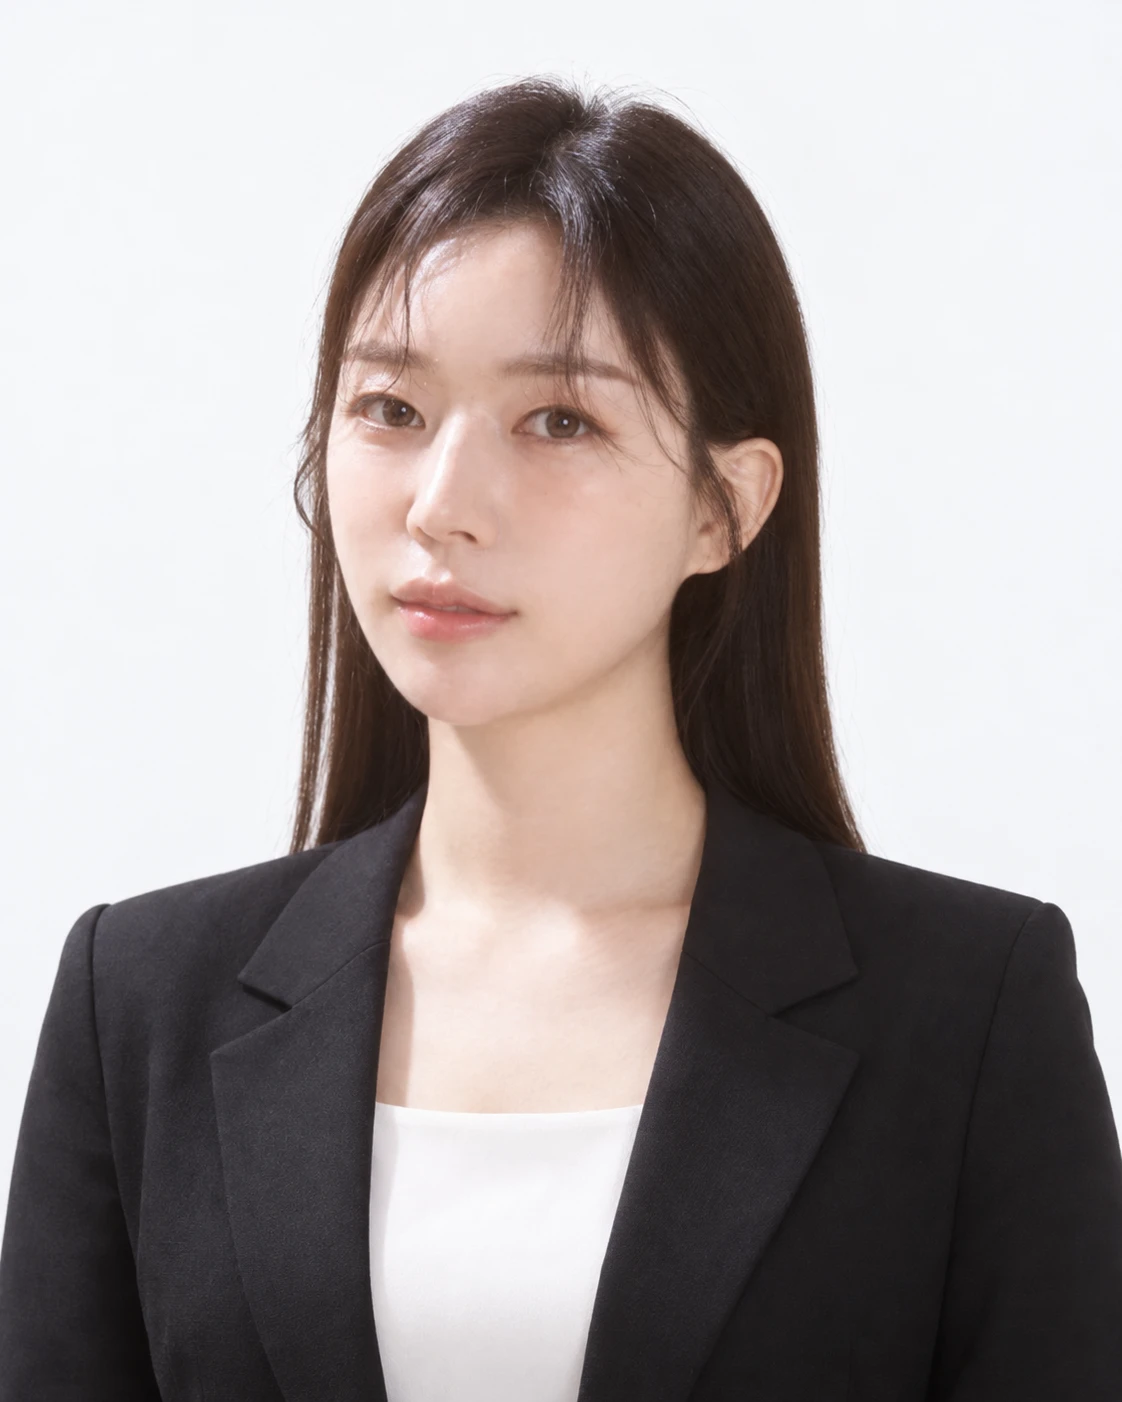
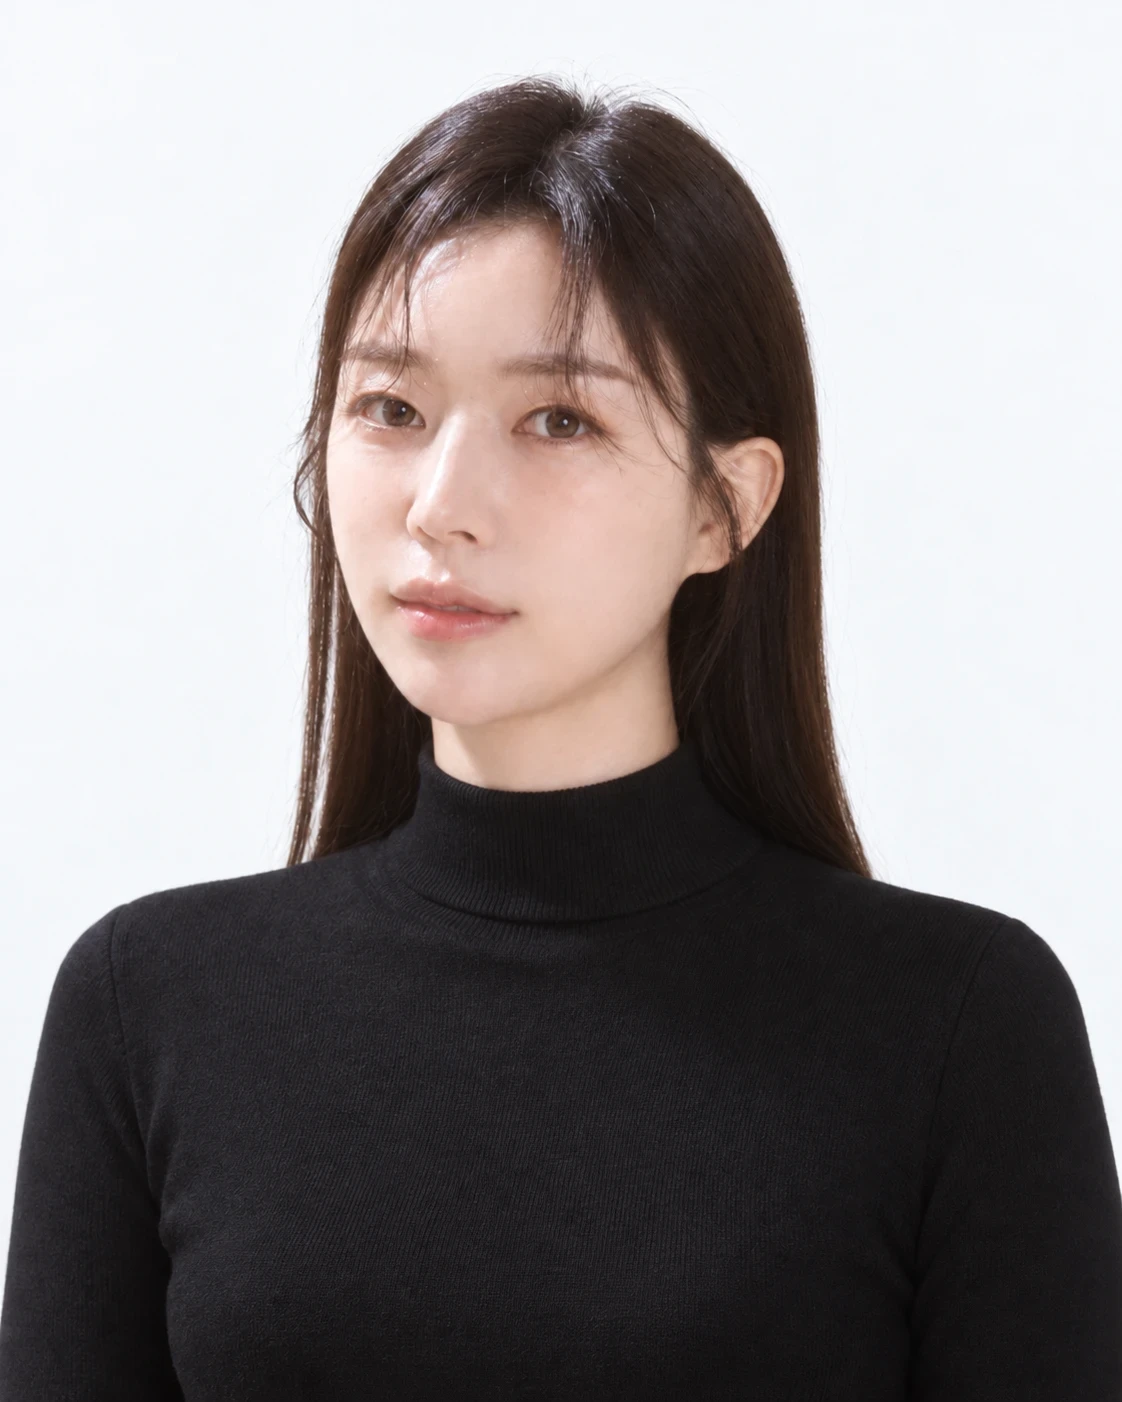
프로필 사진 교체, 이메일과 전화번호 복사 버튼, 핵심역량 기호 변경, 메뉴 글자 크기 조정, 홈 하단 문구 삭제

diff --git a/profile.html b/profile.html
@@ -5,7 +5,7 @@
 <meta name="viewport" content="width=device-width, initial-scale=1">
 <title>프로필 | 박경지 포트폴리오</title>
 <link rel="stylesheet" href="https://cdn.jsdelivr.net/gh/orioncactus/pretendard@v1.3.9/dist/web/static/pretendard.min.css">
-<link rel="stylesheet" href="style.css?v=5">
+<link rel="stylesheet" href="style.css?v=6">
 </head>
 <body>
 <div class="wrap">
@@ -15,11 +15,16 @@
 <div class="body">
 
 <header class="profile-hero">
-<img src="profile.webp" alt="박경지 프로필 사진">
+<img src="profile.webp?v=2" alt="박경지 프로필 사진">
 <div class="txt">
 <span class="label">AI 기획자</span>
 <h1 style="margin-top:14px;font-size:clamp(24px,3.4vw,32px);line-height:1.4;font-weight:700;letter-spacing:-0.02em">고객의 문제를 찾아 <em style="font-style:normal;color:var(--blue-text)">실제로 작동하는 AI 서비스</em>로 만드는 박경지입니다.</h1>
 <p class="name" style="margin-top:10px">GYEONGJI PARK</p>
+<div class="contact">
+<button type="button" class="copy" data-copy="1umbrella@naver.com" aria-label="이메일 복사"><svg aria-hidden="true" width="16" height="16" viewBox="0 0 24 24" fill="none" stroke="currentColor" stroke-width="1.8"><rect x="3" y="5" width="18" height="14" rx="2"/><path d="m3 7 9 6 9-6"/></svg>1umbrella@naver.com</button>
+<button type="button" class="copy" data-copy="010-9454-0357" aria-label="전화번호 복사"><svg aria-hidden="true" width="16" height="16" viewBox="0 0 24 24" fill="none" stroke="currentColor" stroke-width="1.8"><path d="M5 4h4l2 5-2.5 1.5a11 11 0 0 0 5 5L15 13l5 2v4a1 1 0 0 1-1 1A16 16 0 0 1 4 5a1 1 0 0 1 1-1"/></svg>010-9454-0357</button>
+<span class="copied" role="status" aria-live="polite"></span>
+</div>
 </div>
 </header>
 
@@ -33,12 +38,12 @@
 <section class="sec">
 <h2>핵심 역량</h2>
 <ul class="bul">
-<li><b>AI 서비스 기획</b> — 금융, 교육, 여행, 공공 도메인에서 챗봇, 제안서 PoC, 업무 자동화 Agent 기획 및 납품</li>
-<li><b>정책 기반 설계</b> — 금융은 투자자와 내부 사용자 정책을 나눠 응답 기준 설계, 공공은 규정, 채용 검증, 주간보고 Agent 설계</li>
-<li><b>UI/UX</b> — AI 결과물을 사용자가 가장 편하고 직관적으로 쓰도록 화면 흐름으로 연결</li>
-<li><b>검증 중심</b> — AI 결과를 그대로 쓰지 않고 편향과 오류를 데이터로 검증</li>
-<li><b>신사업 설계</b> — 시장조사, 법령 분석, P&amp;L 시뮬레이션, 브랜딩까지 한 번에 설계</li>
-<li><b>커뮤니케이션</b> — 개발자, 디자이너, 마케터, 현업 담당자 사이를 조율</li>
+<li><b>AI 서비스 기획</b> - 금융, 교육, 여행, 공공 도메인에서 챗봇, 제안서 PoC, 업무 자동화 Agent 기획 및 납품</li>
+<li><b>정책 기반 설계</b> - 금융은 투자자와 내부 사용자 정책을 나눠 응답 기준 설계, 공공은 규정, 채용 검증, 주간보고 Agent 설계</li>
+<li><b>UI/UX</b> - AI 결과물을 사용자가 가장 편하고 직관적으로 쓰도록 화면 흐름으로 연결</li>
+<li><b>검증 중심</b> - AI 결과를 그대로 쓰지 않고 편향과 오류를 데이터로 검증</li>
+<li><b>신사업 설계</b> - 시장조사, 법령 분석, P&amp;L 시뮬레이션, 브랜딩까지 한 번에 설계</li>
+<li><b>커뮤니케이션</b> - 개발자, 디자이너, 마케터, 현업 담당자 사이를 조율</li>
 </ul>
 </section>
 
@@ -86,7 +91,14 @@
 </main>
 </div>
 </div>
+<script>
+document.querySelectorAll('.copy').forEach((b) => b.addEventListener('click', async () => {
+  const t = b.dataset.copy, s = document.querySelector('.copied');
+  try { await navigator.clipboard.writeText(t); } catch (e) { const a = document.createElement('textarea'); a.value = t; document.body.appendChild(a); a.select(); document.execCommand('copy'); a.remove(); }
+  s.textContent = t + ' 복사됨'; clearTimeout(s._t); s._t = setTimeout(() => { s.textContent = ''; }, 1800);
+}));
+</script>
 <script src="data.js?v=2"></script>
-<script src="nav.js?v=2"></script>
+<script src="nav.js?v=3"></script>
 </body>
 </html>

diff --git a/style.css b/style.css
@@ -138,9 +138,9 @@ h1,h2,h3,p{margin:0}
 .chev{margin-left:auto;width:8px;height:8px;border-right:1.6px solid currentColor;border-bottom:1.6px solid currentColor;transform:rotate(45deg);opacity:.5;transition:transform .2s}
 details[open] > summary .chev{transform:rotate(-135deg)}
 .navcat{margin-left:18px;padding-left:12px;border-left:1px solid rgba(20,22,26,0.1)}
-.navcat summary{display:flex;align-items:center;padding:6px 10px;font-size:12px;font-weight:700;color:var(--muted);cursor:pointer;list-style:none}
+.navcat summary{display:flex;align-items:center;padding:6px 10px;font-size:14px;font-weight:700;color:var(--ink);cursor:pointer;list-style:none}
 .sub{display:flex;flex-direction:column;gap:2px;margin:0 0 6px}
-.sub a{display:block;padding:6px 10px;border-radius:10px;font-size:14px;border:1px solid transparent;color:rgba(20,22,26,0.75)}
+.sub a{display:block;padding:5px 10px;border-radius:10px;font-size:12px;border:1px solid transparent;color:rgba(20,22,26,0.75)}
 .sub a:hover{background:rgba(20,22,26,0.04);color:var(--ink)}
 .sub a[aria-current="page"]{background:var(--gray-soft);border-color:rgba(20,22,26,0.08);color:var(--ink);font-weight:600}
 .side .me{margin-top:auto;padding:14px 8px 0;border-top:1px solid var(--line);display:flex;align-items:center;gap:12px}
@@ -156,3 +156,9 @@ details[open] > summary .chev{transform:rotate(-135deg)}
 .screens figure{margin:0}
 .screens img{display:block;width:100%;border-radius:14px;border:1px solid var(--line)}
 .screens figcaption{margin-top:6px;font-size:13px;color:var(--muted)}
+
+/* 프로필 연락처 복사 */
+.contact{margin-top:12px;display:flex;flex-wrap:wrap;align-items:center;gap:8px}
+.copy{display:inline-flex;align-items:center;gap:6px;padding:7px 12px;border:1px solid rgba(20,22,26,0.12);border-radius:999px;background:#fff;font:inherit;font-size:14px;color:var(--ink);cursor:pointer}
+.copy:hover{background:var(--gray-soft)}
+.copied{font-size:13px;font-weight:600;color:var(--blue-text)}

diff --git a/index.html b/index.html
@@ -6,7 +6,7 @@
 <title>박경지 포트폴리오</title>
 <meta name="description" content="AI 기획자 박경지의 프로젝트 포트폴리오">
 <link rel="stylesheet" href="https://cdn.jsdelivr.net/gh/orioncactus/pretendard@v1.3.9/dist/web/static/pretendard.min.css">
-<link rel="stylesheet" href="style.css?v=5">
+<link rel="stylesheet" href="style.css?v=6">
 <style>
 .home{padding:32px 32px 40px}
 .bar{display:flex;flex-wrap:wrap;justify-content:space-between;align-items:center;gap:12px}
@@ -64,14 +64,13 @@
 </div>
 <div id="groups"></div>
 <p class="empty" id="empty" hidden>검색 결과가 없습니다.</p>
-<p class="foot">기여도: 역할 기준 표기, 과업별 비중은 상세 페이지에서 확인</p>
 </main>
 
 </div>
 </div>
 
 <script src="data.js?v=2"></script>
-<script src="nav.js?v=2"></script>
+<script src="nav.js?v=3"></script>
 <script>
 // 카드 내용은 data.js에서 수정합니다.
 const { cats, projects } = window.PF;

diff --git a/bulg.html b/bulg.html
@@ -5,7 +5,7 @@
 <meta name="viewport" content="width=device-width, initial-scale=1">
 <title>코오롱글로벌 BULG | 박경지 포트폴리오</title>
 <link rel="stylesheet" href="https://cdn.jsdelivr.net/gh/orioncactus/pretendard@v1.3.9/dist/web/static/pretendard.min.css">
-<link rel="stylesheet" href="style.css?v=5">
+<link rel="stylesheet" href="style.css?v=6">
 <style>
 .gallery{display:grid;grid-template-columns:repeat(auto-fit,minmax(260px,1fr));gap:16px;align-items:start}
 .gallery img{display:block;width:100%;border-radius:18px;background:var(--gray-soft)}
@@ -68,6 +68,6 @@
 </div>
 </div>
 <script src="data.js?v=2"></script>
-<script src="nav.js?v=2"></script>
+<script src="nav.js?v=3"></script>
 </body>
 </html>

diff --git a/refurlab.html b/refurlab.html
@@ -5,7 +5,7 @@
 <meta name="viewport" content="width=device-width, initial-scale=1">
 <title>IT 브랜드 리퍼연구소 | 박경지 포트폴리오</title>
 <link rel="stylesheet" href="https://cdn.jsdelivr.net/gh/orioncactus/pretendard@v1.3.9/dist/web/static/pretendard.min.css">
-<link rel="stylesheet" href="style.css?v=5">
+<link rel="stylesheet" href="style.css?v=6">
 </head>
 <body>
 <div class="wrap">
@@ -63,6 +63,6 @@
 </div>
 </div>
 <script src="data.js?v=2"></script>
-<script src="nav.js?v=2"></script>
+<script src="nav.js?v=3"></script>
 </body>
 </html>

diff --git a/redesign.html b/redesign.html
@@ -5,7 +5,7 @@
 <meta name="viewport" content="width=device-width, initial-scale=1">
 <title>브랜드 리디자인 3종 | 박경지 포트폴리오</title>
 <link rel="stylesheet" href="https://cdn.jsdelivr.net/gh/orioncactus/pretendard@v1.3.9/dist/web/static/pretendard.min.css">
-<link rel="stylesheet" href="style.css?v=5">
+<link rel="stylesheet" href="style.css?v=6">
 </head>
 <body>
 <div class="wrap">
@@ -55,6 +55,6 @@
 </div>
 </div>
 <script src="data.js?v=2"></script>
-<script src="nav.js?v=2"></script>
+<script src="nav.js?v=3"></script>
 </body>
 </html>

diff --git a/walkd.html b/walkd.html
@@ -5,7 +5,7 @@
 <meta name="viewport" content="width=device-width, initial-scale=1">
 <title>라이프스타일 Walkd | 박경지 포트폴리오</title>
 <link rel="stylesheet" href="https://cdn.jsdelivr.net/gh/orioncactus/pretendard@v1.3.9/dist/web/static/pretendard.min.css">
-<link rel="stylesheet" href="style.css?v=5">
+<link rel="stylesheet" href="style.css?v=6">
 </head>
 <body>
 <div class="wrap">
@@ -62,6 +62,6 @@
 </div>
 </div>
 <script src="data.js?v=2"></script>
-<script src="nav.js?v=2"></script>
+<script src="nav.js?v=3"></script>
 </body>
 </html>

diff --git a/yes24.html b/yes24.html
@@ -5,7 +5,7 @@
 <meta name="viewport" content="width=device-width, initial-scale=1">
 <title>디지털 참고서 ISMP | 박경지 포트폴리오</title>
 <link rel="stylesheet" href="https://cdn.jsdelivr.net/gh/orioncactus/pretendard@v1.3.9/dist/web/static/pretendard.min.css">
-<link rel="stylesheet" href="style.css?v=5">
+<link rel="stylesheet" href="style.css?v=6">
 </head>
 <body>
 <div class="wrap">
@@ -71,6 +71,6 @@
 </div>
 </div>
 <script src="data.js?v=2"></script>
-<script src="nav.js?v=2"></script>
+<script src="nav.js?v=3"></script>
 </body>
 </html>

diff --git a/jellyi.html b/jellyi.html
@@ -5,7 +5,7 @@
 <meta name="viewport" content="width=device-width, initial-scale=1">
 <title>젤리아이 리뉴얼 | 박경지 포트폴리오</title>
 <link rel="stylesheet" href="https://cdn.jsdelivr.net/gh/orioncactus/pretendard@v1.3.9/dist/web/static/pretendard.min.css">
-<link rel="stylesheet" href="style.css?v=5">
+<link rel="stylesheet" href="style.css?v=6">
 </head>
 <body>
 <div class="wrap">
@@ -66,6 +66,6 @@
 </div>
 </div>
 <script src="data.js?v=2"></script>
-<script src="nav.js?v=2"></script>
+<script src="nav.js?v=3"></script>
 </body>
 </html>

diff --git a/kofac.html b/kofac.html
@@ -5,7 +5,7 @@
 <meta name="viewport" content="width=device-width, initial-scale=1">
 <title>정보교원 AI 연수 | 박경지 포트폴리오</title>
 <link rel="stylesheet" href="https://cdn.jsdelivr.net/gh/orioncactus/pretendard@v1.3.9/dist/web/static/pretendard.min.css">
-<link rel="stylesheet" href="style.css?v=5">
+<link rel="stylesheet" href="style.css?v=6">
 </head>
 <body>
 <div class="wrap">
@@ -71,6 +71,6 @@
 </div>
 </div>
 <script src="data.js?v=2"></script>
-<script src="nav.js?v=2"></script>
+<script src="nav.js?v=3"></script>
 </body>
 </html>

diff --git a/openinno.html b/openinno.html
@@ -5,7 +5,7 @@
 <meta name="viewport" content="width=device-width, initial-scale=1">
 <title>AI 교사 업무비서 | 박경지 포트폴리오</title>
 <link rel="stylesheet" href="https://cdn.jsdelivr.net/gh/orioncactus/pretendard@v1.3.9/dist/web/static/pretendard.min.css">
-<link rel="stylesheet" href="style.css?v=5">
+<link rel="stylesheet" href="style.css?v=6">
 </head>
 <body>
 <div class="wrap">
@@ -67,6 +67,6 @@
 </div>
 </div>
 <script src="data.js?v=2"></script>
-<script src="nav.js?v=2"></script>
+<script src="nav.js?v=3"></script>
 </body>
 </html>

diff --git a/gri.html b/gri.html
@@ -5,7 +5,7 @@
 <meta name="viewport" content="width=device-width, initial-scale=1">
 <title>경기연구원 PoC | 박경지 포트폴리오</title>
 <link rel="stylesheet" href="https://cdn.jsdelivr.net/gh/orioncactus/pretendard@v1.3.9/dist/web/static/pretendard.min.css">
-<link rel="stylesheet" href="style.css?v=5">
+<link rel="stylesheet" href="style.css?v=6">
 </head>
 <body>
 <div class="wrap">
@@ -71,6 +71,6 @@
 </div>
 </div>
 <script src="data.js?v=2"></script>
-<script src="nav.js?v=2"></script>
+<script src="nav.js?v=3"></script>
 </body>
 </html>
